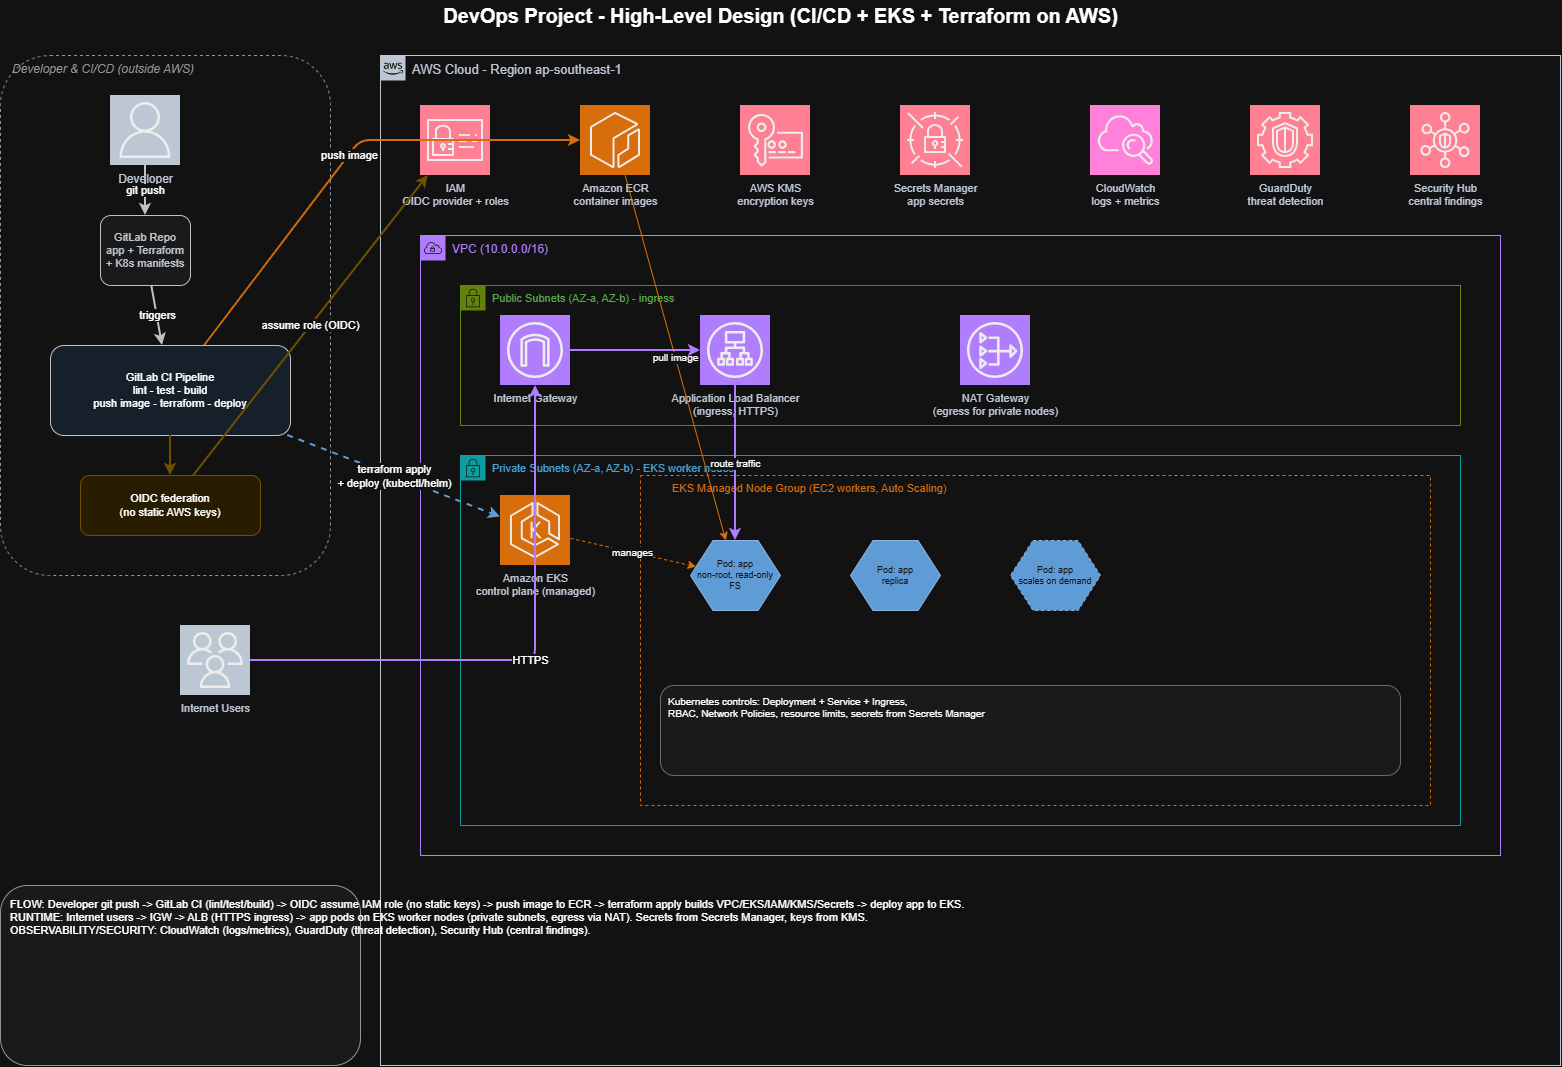
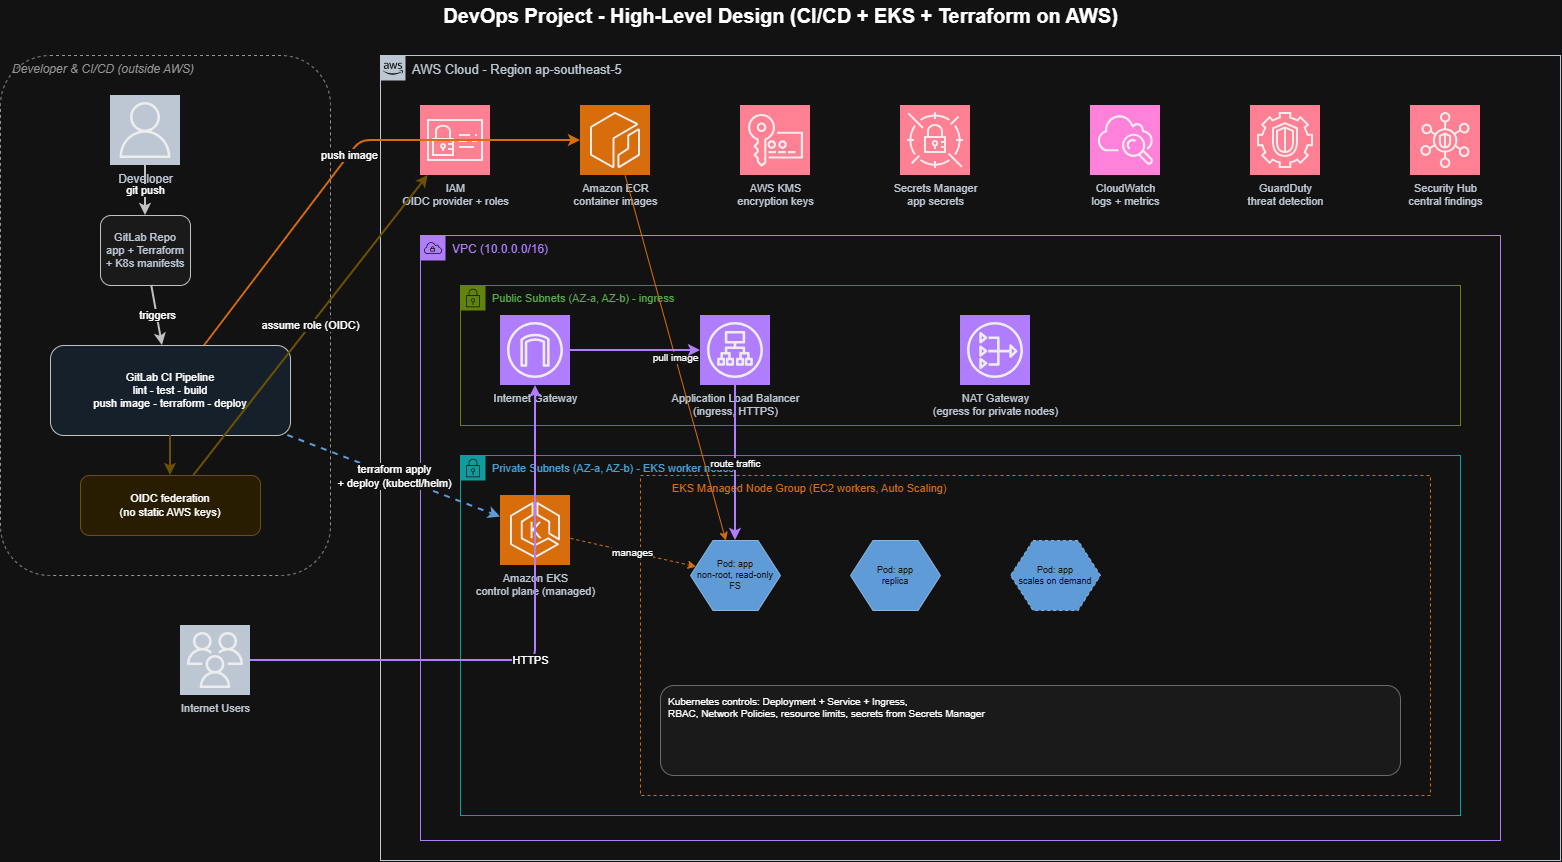
README: add phase-by-phase architecture diagrams under the flows; refresh HLD image with tidied layout and ap-southeast-5

diff --git a/README.md b/README.md
@@ -170,6 +170,60 @@ Internet user requests  http://<ALB-DNS>/orders
 
 ---
 
+## Phase-by-phase architecture
+
+The high-level diagram above shows the whole system. These five diagrams zoom into
+each phase so you can see exactly what gets built and how each phase hands off to the
+next. Each links to its detailed plan.
+
+### Phase 1 — Applications + Docker (local, zero cost)
+
+Both microservices are built and containerized with multi-stage, non-root Dockerfiles,
+then run together locally with Docker Compose. No AWS yet.
+
+![Phase 1 architecture: developer laptop runs orders-node (Express) and users-python (FastAPI) via docker-compose; the resulting non-root images are what later phases push to ECR.](planning/architecture-phase-1.png)
+
+→ [`planning/05-PHASE-1.md`](planning/05-PHASE-1.md)
+
+### Phase 2 — Infrastructure as Code (Terraform)
+
+Terraform builds the entire AWS environment — VPC, ECR, EKS, IAM/OIDC, KMS, Secrets
+Manager — and its outputs (ECR URIs, cluster name, deploy-role ARN) feed the pipeline.
+
+![Phase 2 architecture: Terraform applies to create the AWS Cloud environment containing IAM OIDC, ECR, KMS, Secrets Manager, and a VPC with the EKS control plane and managed node group.](planning/architecture-phase-2.png)
+
+→ [`planning/06-PHASE-2.md`](planning/06-PHASE-2.md)
+
+### Phase 3 — CI/CD pipeline (GitLab CI)
+
+Every push is tested, authenticated to AWS via OIDC, built with Kaniko, tagged by git
+SHA, pushed to ECR, and deployed to EKS — dev automatically, prod behind a manual gate.
+
+![Phase 3 architecture: a git push triggers the GitLab CI pipeline (lint/test, build, OIDC auth, push to ECR, deploy to EKS) with a manual approval gate before prod.](planning/architecture-phase-3.png)
+
+→ [`planning/08-PHASE-3.md`](planning/08-PHASE-3.md)
+
+### Phase 4 — Kubernetes hardening
+
+The running workloads are hardened: a single ALB Ingress with path routing, non-root
+read-only pods, RBAC, default-deny NetworkPolicies, HPA, and secrets pulled from
+Secrets Manager via the CSI driver (no plaintext Kubernetes secrets).
+
+![Phase 4 architecture: an ALB Ingress routes /orders and /users to hardened Deployments inside a restricted EKS namespace, with secrets mounted from AWS Secrets Manager through the CSI driver.](planning/architecture-phase-4.png)
+
+→ [`planning/09-PHASE-4.md`](planning/09-PHASE-4.md)
+
+### Phase 5 — Observability & cloud security posture
+
+Everything running emits logs and metrics to CloudWatch; an alarm notifies via SNS, and
+GuardDuty + Security Hub provide account-wide security posture.
+
+![Phase 5 architecture: the EKS cluster sends logs and metrics to CloudWatch, which triggers an alarm to SNS email; GuardDuty and Security Hub aggregate account-wide security findings.](planning/architecture-phase-5.png)
+
+→ [`planning/10-PHASE-5.md`](planning/10-PHASE-5.md)
+
+---
+
 ## Repository layout
 
 ```
